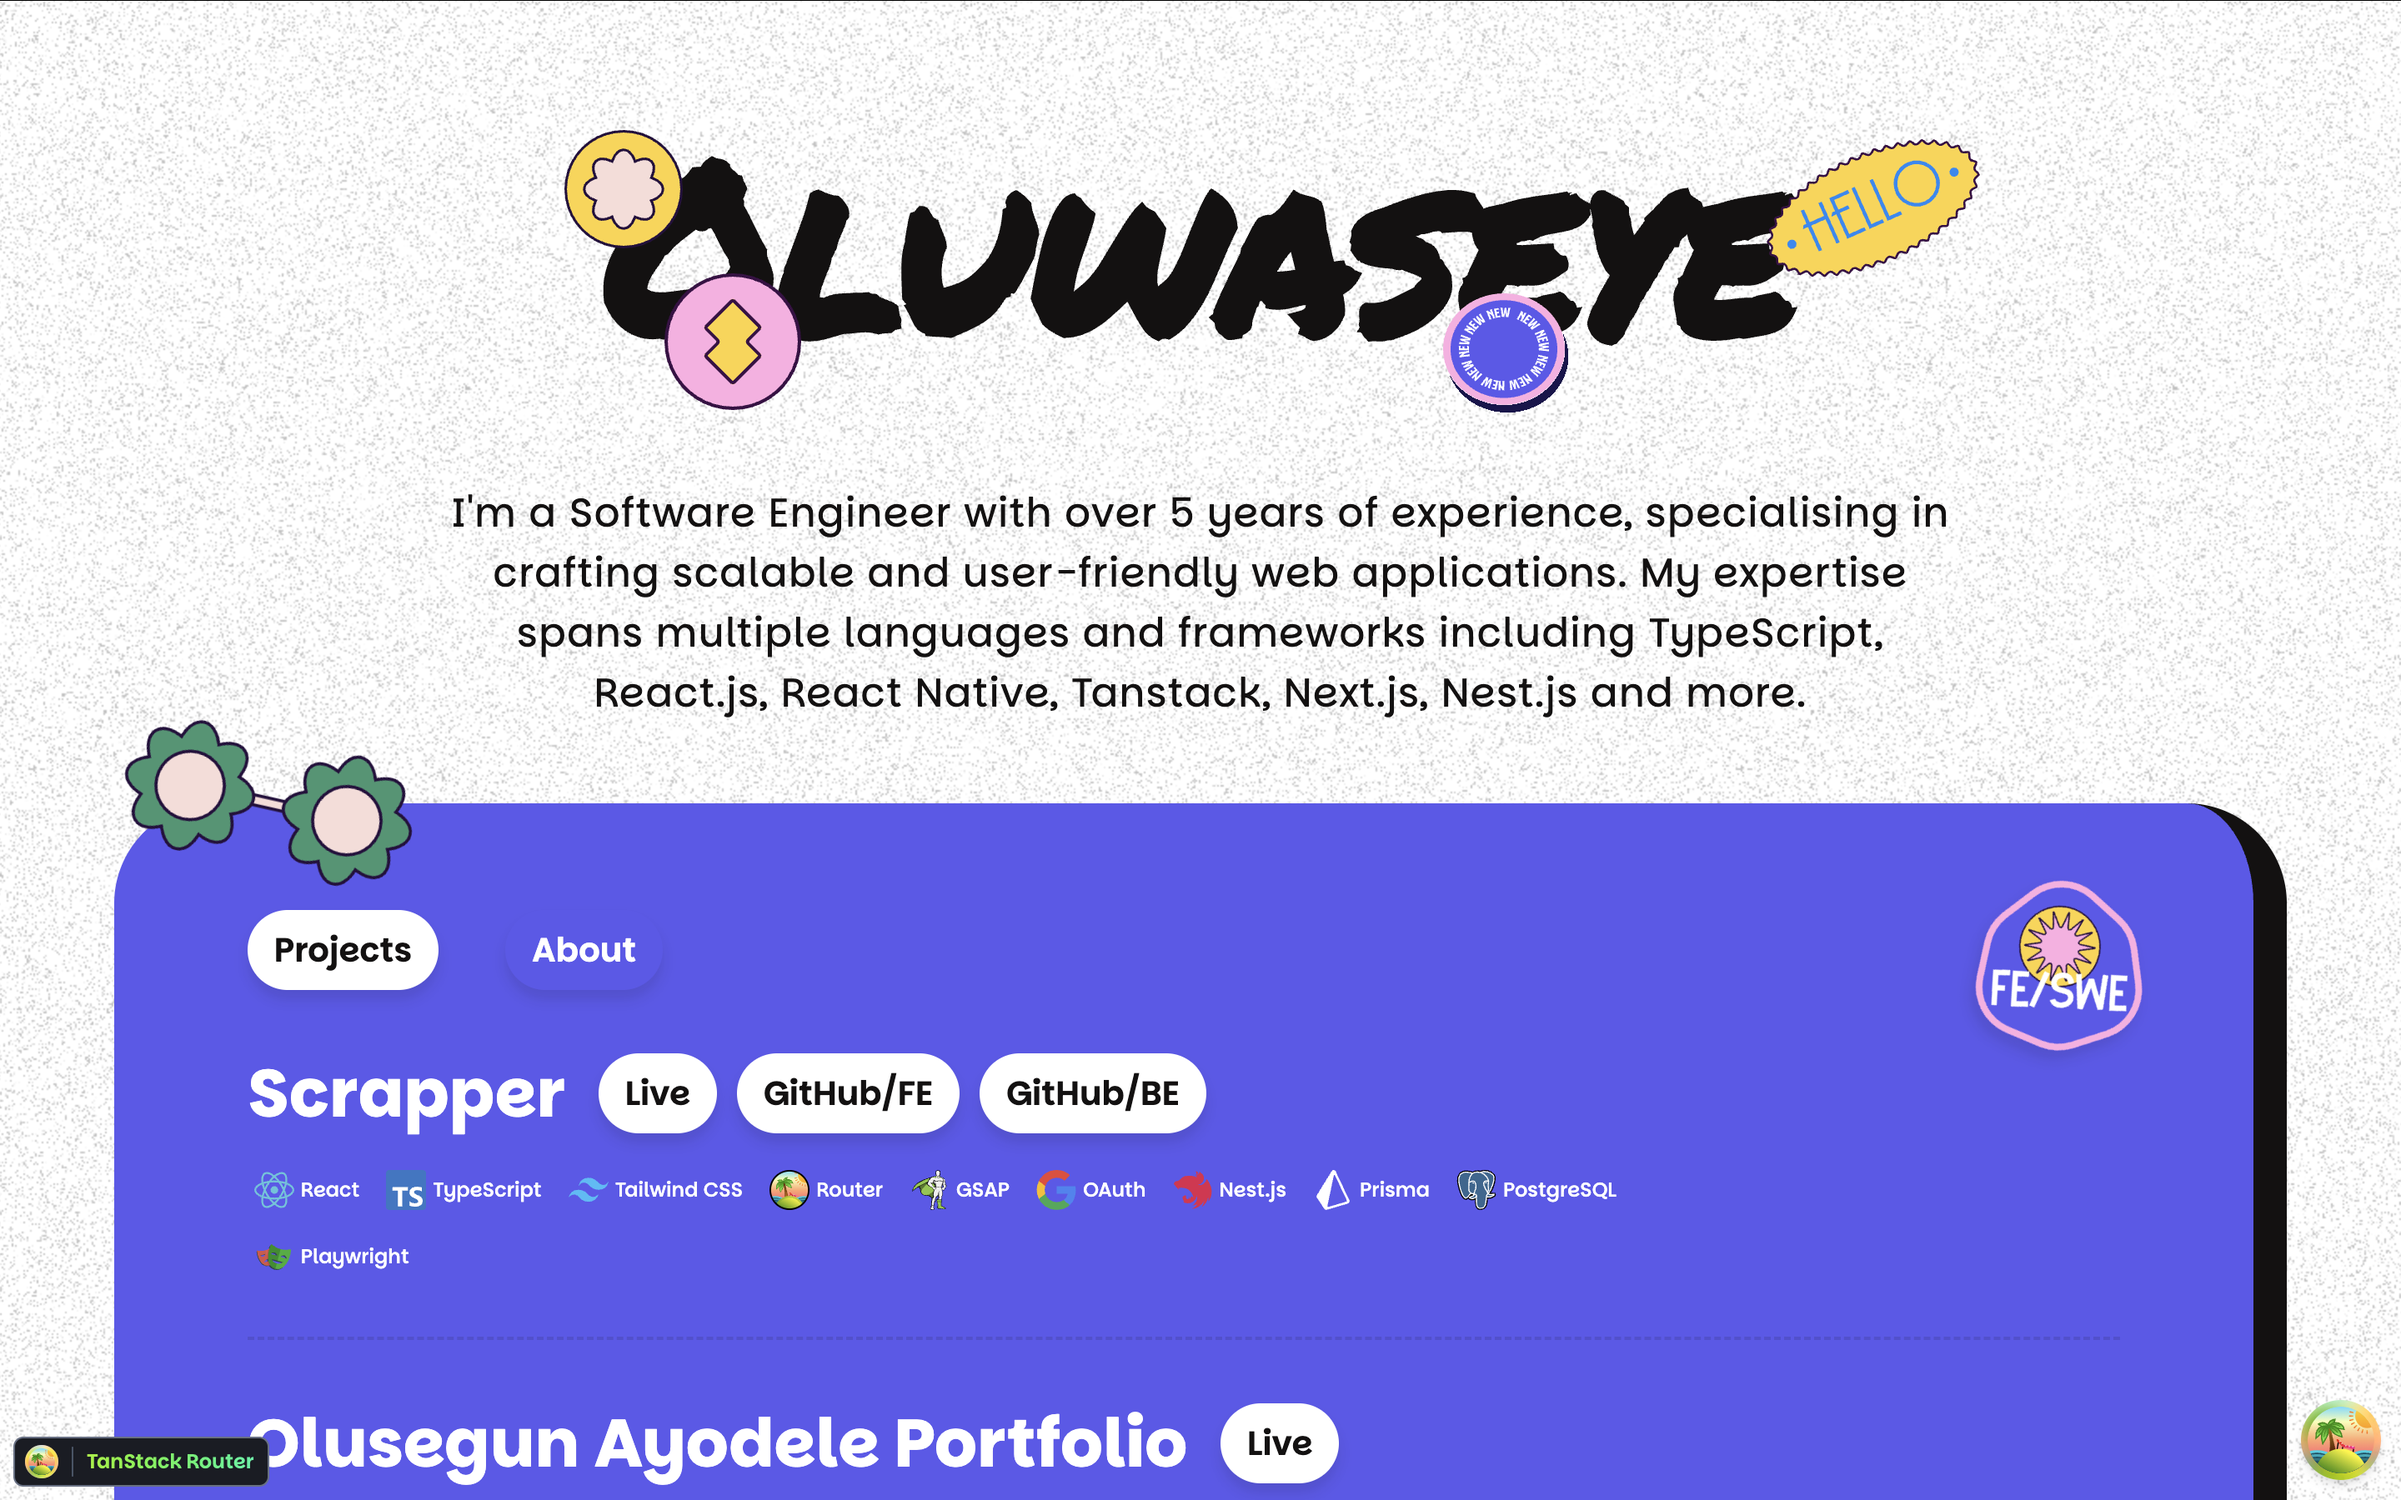
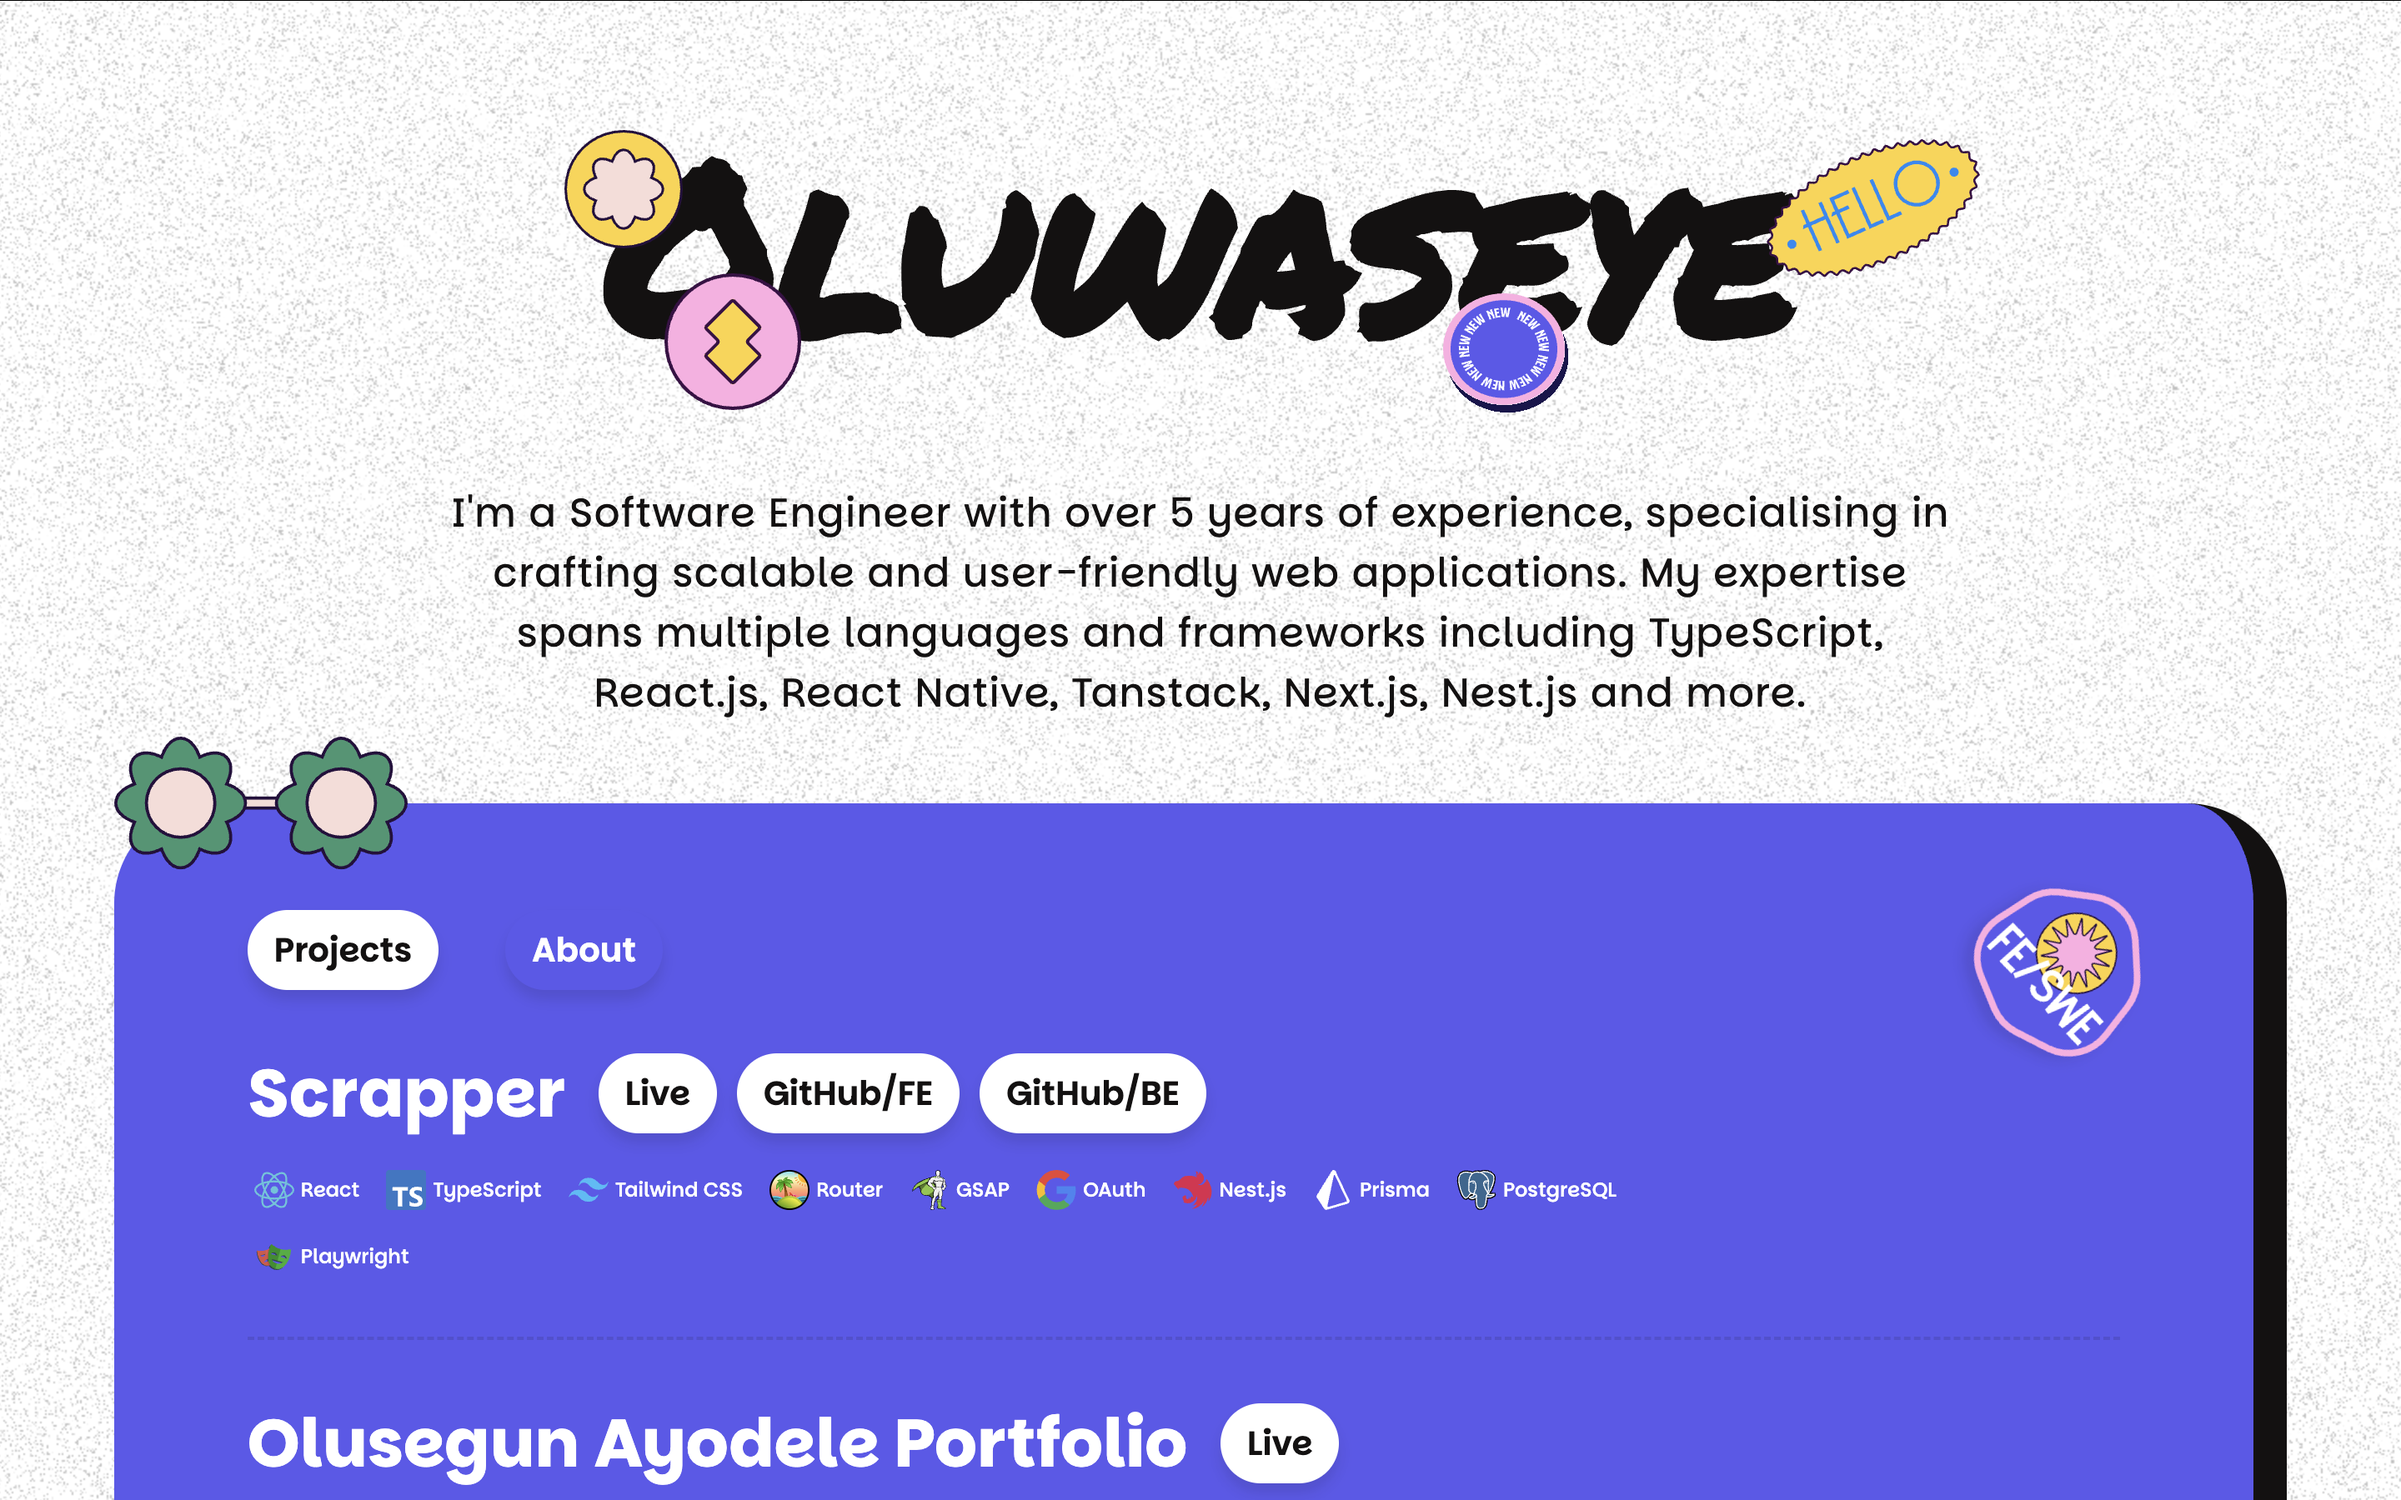
feat: update Open Graph and Twitter meta tags for improved social sharing

diff --git a/src/routes/__root.tsx b/src/routes/__root.tsx
@@ -69,6 +69,10 @@ export const Route = createRootRouteWithContext<MyRouterContext>()({
         property: "og:url",
         content: "https://oluwaseye.dev",
       },
+      {
+        property: "twitter:card",
+        content: "summary_large_image",
+      },
     ],
     links: [
       {
